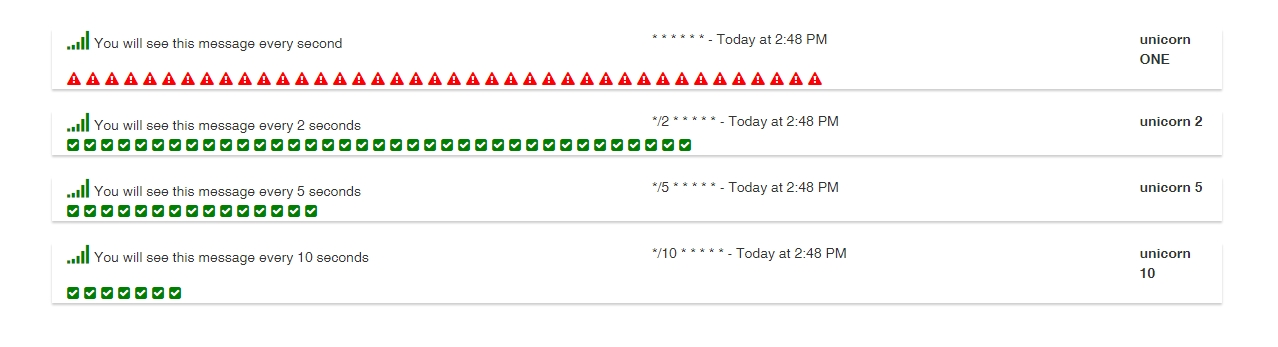
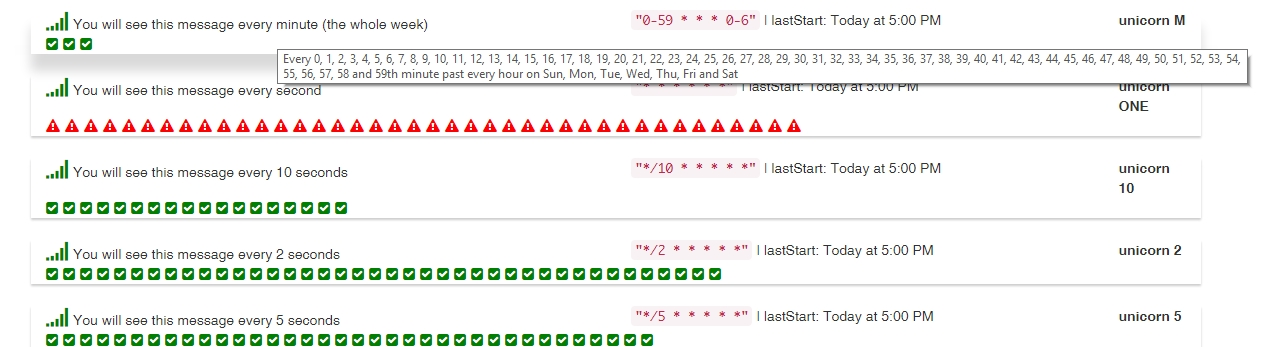
update screenshot.jpg

diff --git a/public/app.js b/public/app.js
@@ -99,14 +99,14 @@
 	        this.props.addTotal( active ? this.props.price : -this.props.price );
 	    },
 	    render: function(){
-	        return <div className="container paper-shadow-top-z-2 card">
+	        return <div className="container paper-shadow-top-z-2 card" title={this.props.prettyCron}>
 		        		<div className={ "row " + (this.state.active ? 'active' : '') } onClick={this.clickHandler}>
 		        			<div className="col-md-6">
 		                    	<i className={"job-icon " + (this.props.iconCssClassName ? this.props.iconCssClassName : "fa fa-signal")} aria-hidden="true"></i> 
 			                    {this.props.description} 
 		        			</div>
-		        			<div className="col-md-5" title={this.props.prettyCron}>
-			                    "{this.props.cronPattern}" | lastStart: {moment(this.props.lastStart).calendar()}  
+		        			<div className="col-md-5">
+			                    <code>"{this.props.cronPattern}"</code> | lastStart: {moment(this.props.lastStart).calendar()}  
 		        			</div>
 		        			<div className="col-md-1">
 		                    	<b>{this.props.name}</b> 
